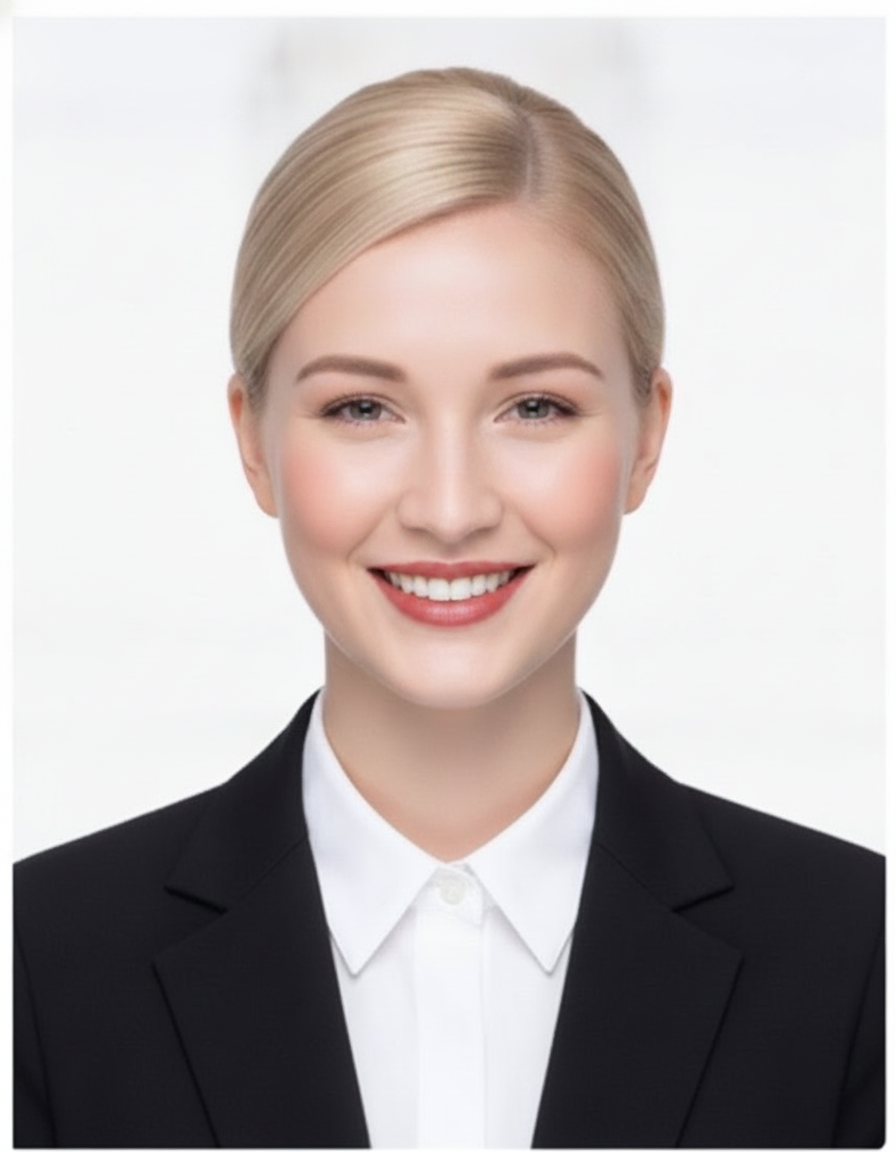
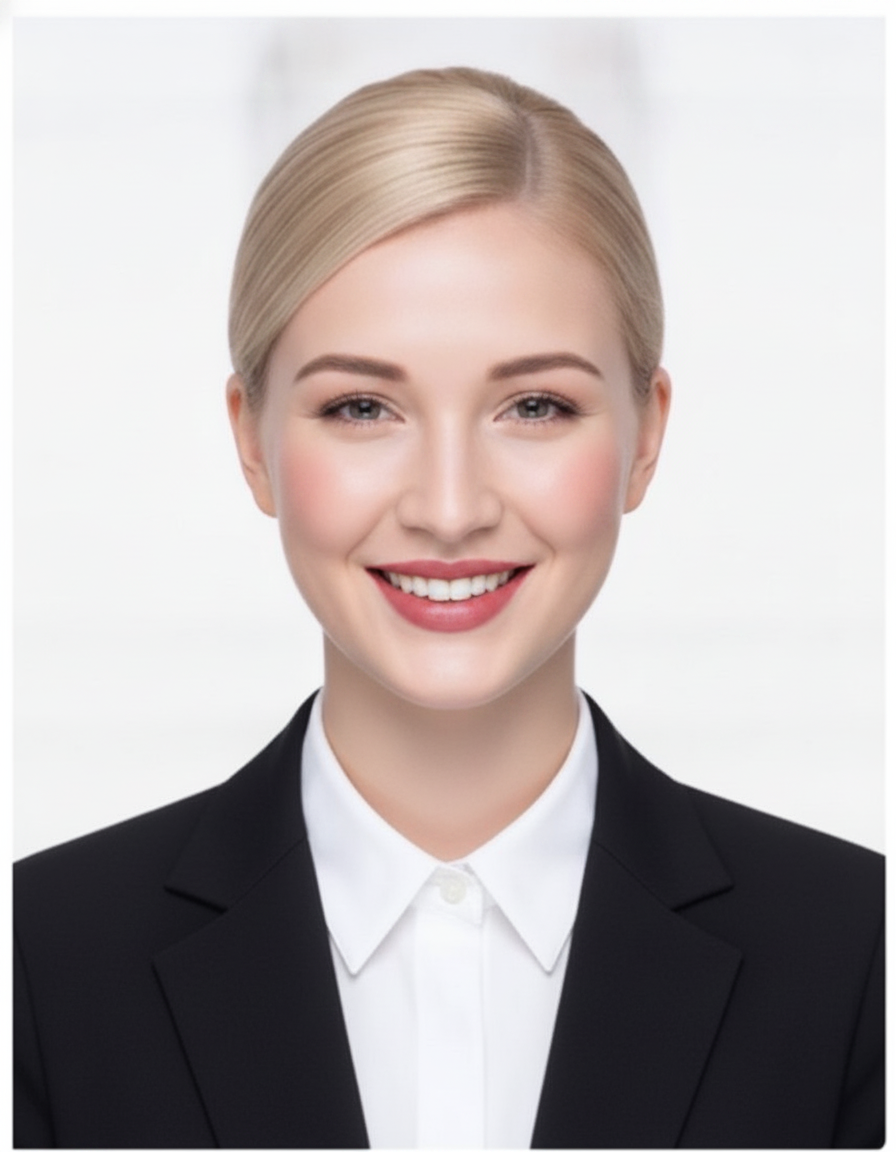
메이크업 썸네일 개편 + CV 웃는사진 노출 + 배경변경 기능 제거
- 메이크업 카드 썸네일: 팔레트를 사진 아래로, 전/후 두 장의 전체 사진을 크게 나란히(반쪽 split 제거로 눈 어색함 해결). 얼굴 크게 → 한눈에 인식. 캐시버스트 v3.
- 애프터 메이크업: 양눈 대칭 자연스러운 풀페이스 메이크업으로 재생성(멍든 눈 느낌 제거).
- Step01 CV 사진: 크롭 조정(center 18%→32%)으로 웃는 입 노출 + 사진 확대 + 캐시버스트 v2.
- image-check-en 메이크업 툴: 배경 바꾸기(셀피 분할) 경계선 어색 → 기능 숨김 제거.

diff --git a/practice-foreign-en.html b/practice-foreign-en.html
@@ -182,7 +182,7 @@ footer{padding:50px 5%;background:var(--navy);color:rgba(255,255,255,0.6);text-a
     <div class="hub-vis" style="padding:14px;background:#F7EFDD;">
       <div style="background:#fff;border-radius:8px;overflow:hidden;display:flex;height:254px;box-shadow:0 4px 14px rgba(0,0,0,.08);font-family:'Noto Sans KR',sans-serif;">
         <div style="width:37%;background:#A9744F;color:#fff;padding:14px 10px;text-align:center;">
-          <div style="width:48px;height:60px;border-radius:6px;border:2px solid rgba(255,255,255,.9);background:url('images/cv-face-western.png') center 18%/cover;margin:0 auto 7px;"></div>
+          <div style="width:58px;height:72px;border-radius:6px;border:2px solid rgba(255,255,255,.9);background:url('images/cv-face-western.png?v=2') center 32%/cover;margin:0 auto 7px;"></div>
           <div style="font-size:11px;font-weight:800;letter-spacing:.04em;line-height:1.1;">EMMA WILSON</div>
           <div style="font-size:6.6px;letter-spacing:.14em;opacity:.85;margin-top:3px;">CABIN CREW</div>
           <div style="font-size:7px;font-weight:800;border-top:1px solid rgba(255,255,255,.3);margin-top:10px;padding-top:7px;text-align:left;">CONTACT</div>
@@ -213,7 +213,7 @@ footer{padding:50px 5%;background:var(--navy);color:rgba(255,255,255,0.6);text-a
   </a>
 
   <a class="hub-card" href="image-check-en.html?photo=images/cv-face-western.png#makeupCard">
-    <div class="hub-vis" style="padding:14px;background:#F7EFDD;"><img src="images/shot-makeup-en.png" style="width:100%;height:100%;object-fit:contain;border-radius:8px;display:block;" alt="Makeup try-on — lip and eyeshadow before/after"></div>
+    <div class="hub-vis" style="padding:8px;background:#F7EFDD;"><img src="images/shot-makeup-en.png?v=3" style="width:100%;height:100%;object-fit:contain;border-radius:8px;display:block;" alt="Makeup try-on — lip and eyeshadow before/after"></div>
     <div class="hub-num">Step 02</div>
     <div class="hub-title">Makeup Try-On · Find Your Colors</div>
     <div class="hub-desc">Apply lipstick, eyeshadow and eyeliner to your own face and find the shades that suit you. Compare before and after instantly.</div>

diff --git a/image-check-en.html b/image-check-en.html
@@ -225,7 +225,7 @@
           <div class="mk-label" style="margin-top:14px;">✒ Eyeliner <span class="mk-int"><button id="linerOff" class="on">None</button><button id="linerOn">On</button></span></div>
           <div class="mk-label" style="margin-top:14px;">🌫 Smoky <span class="mk-int"><button id="smokyOff" class="on">None</button><button id="smokyOn">On</button></span></div>
         </div>
-        <div class="mk-group">
+        <div class="mk-group" style="display:none;">
           <div class="mk-label">🖼 Change background <span class="beta">Free</span></div>
           <div class="mk-swatches" id="bgSwatches"></div>
           <div id="bgStatus" style="font-size:0.78rem;color:var(--muted);margin-top:6px;"></div>
